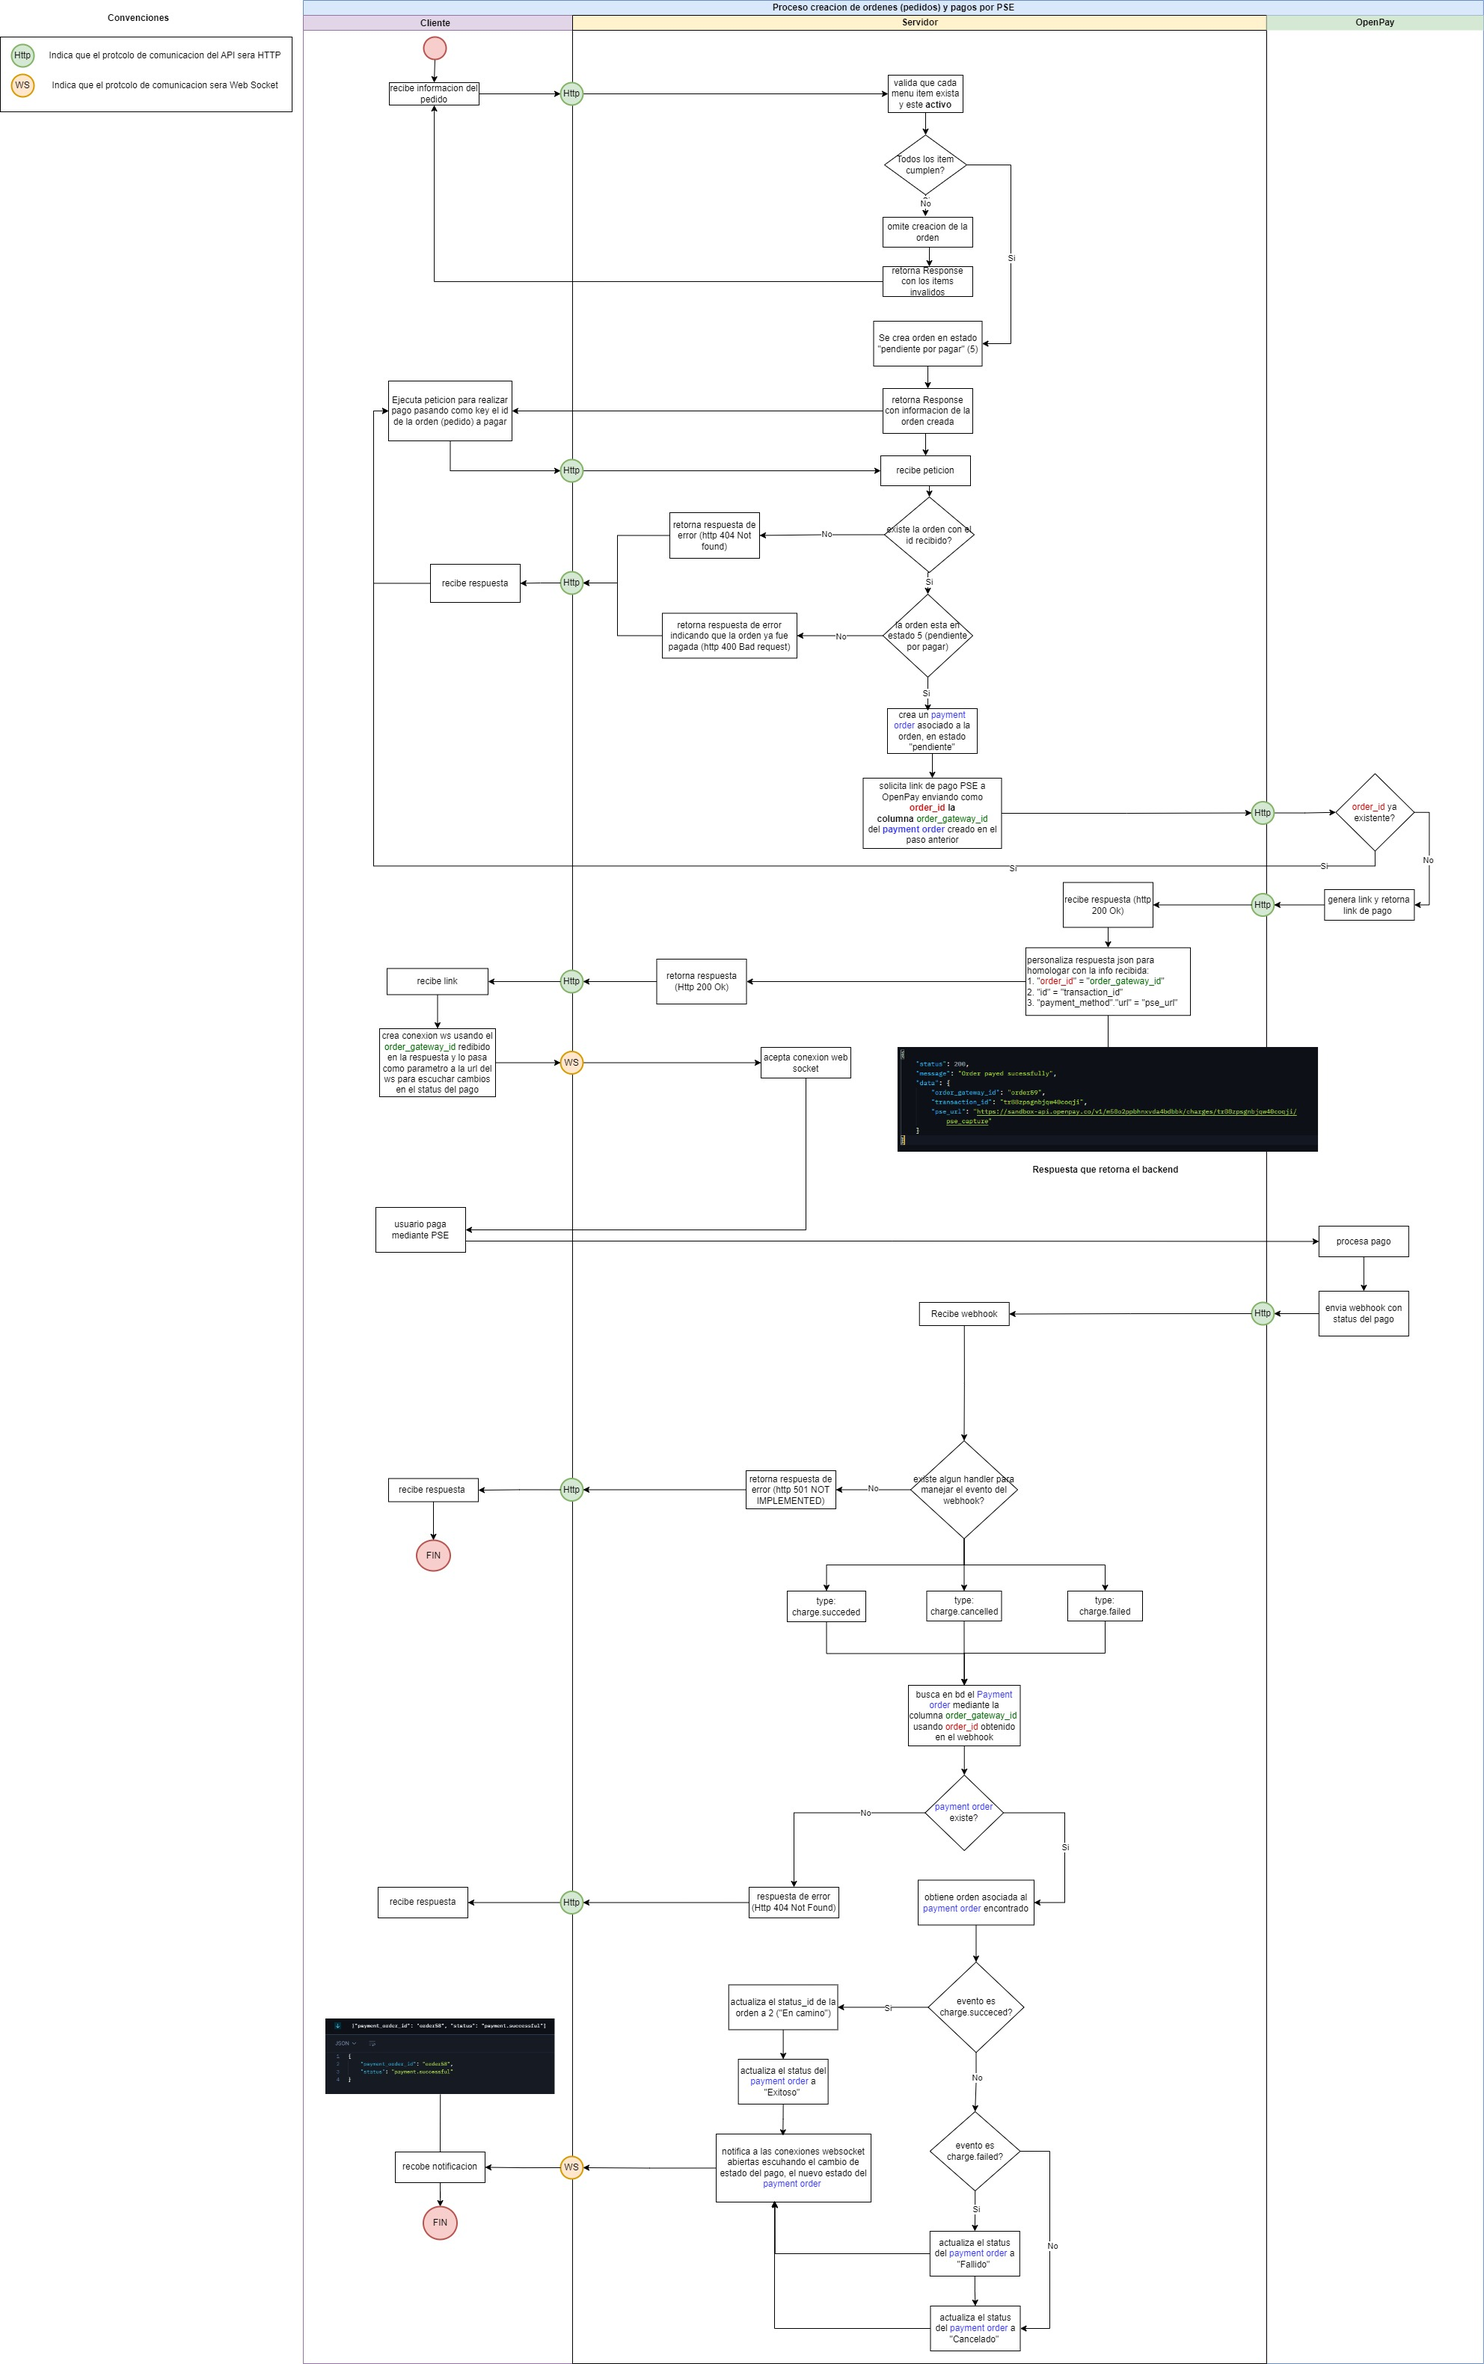
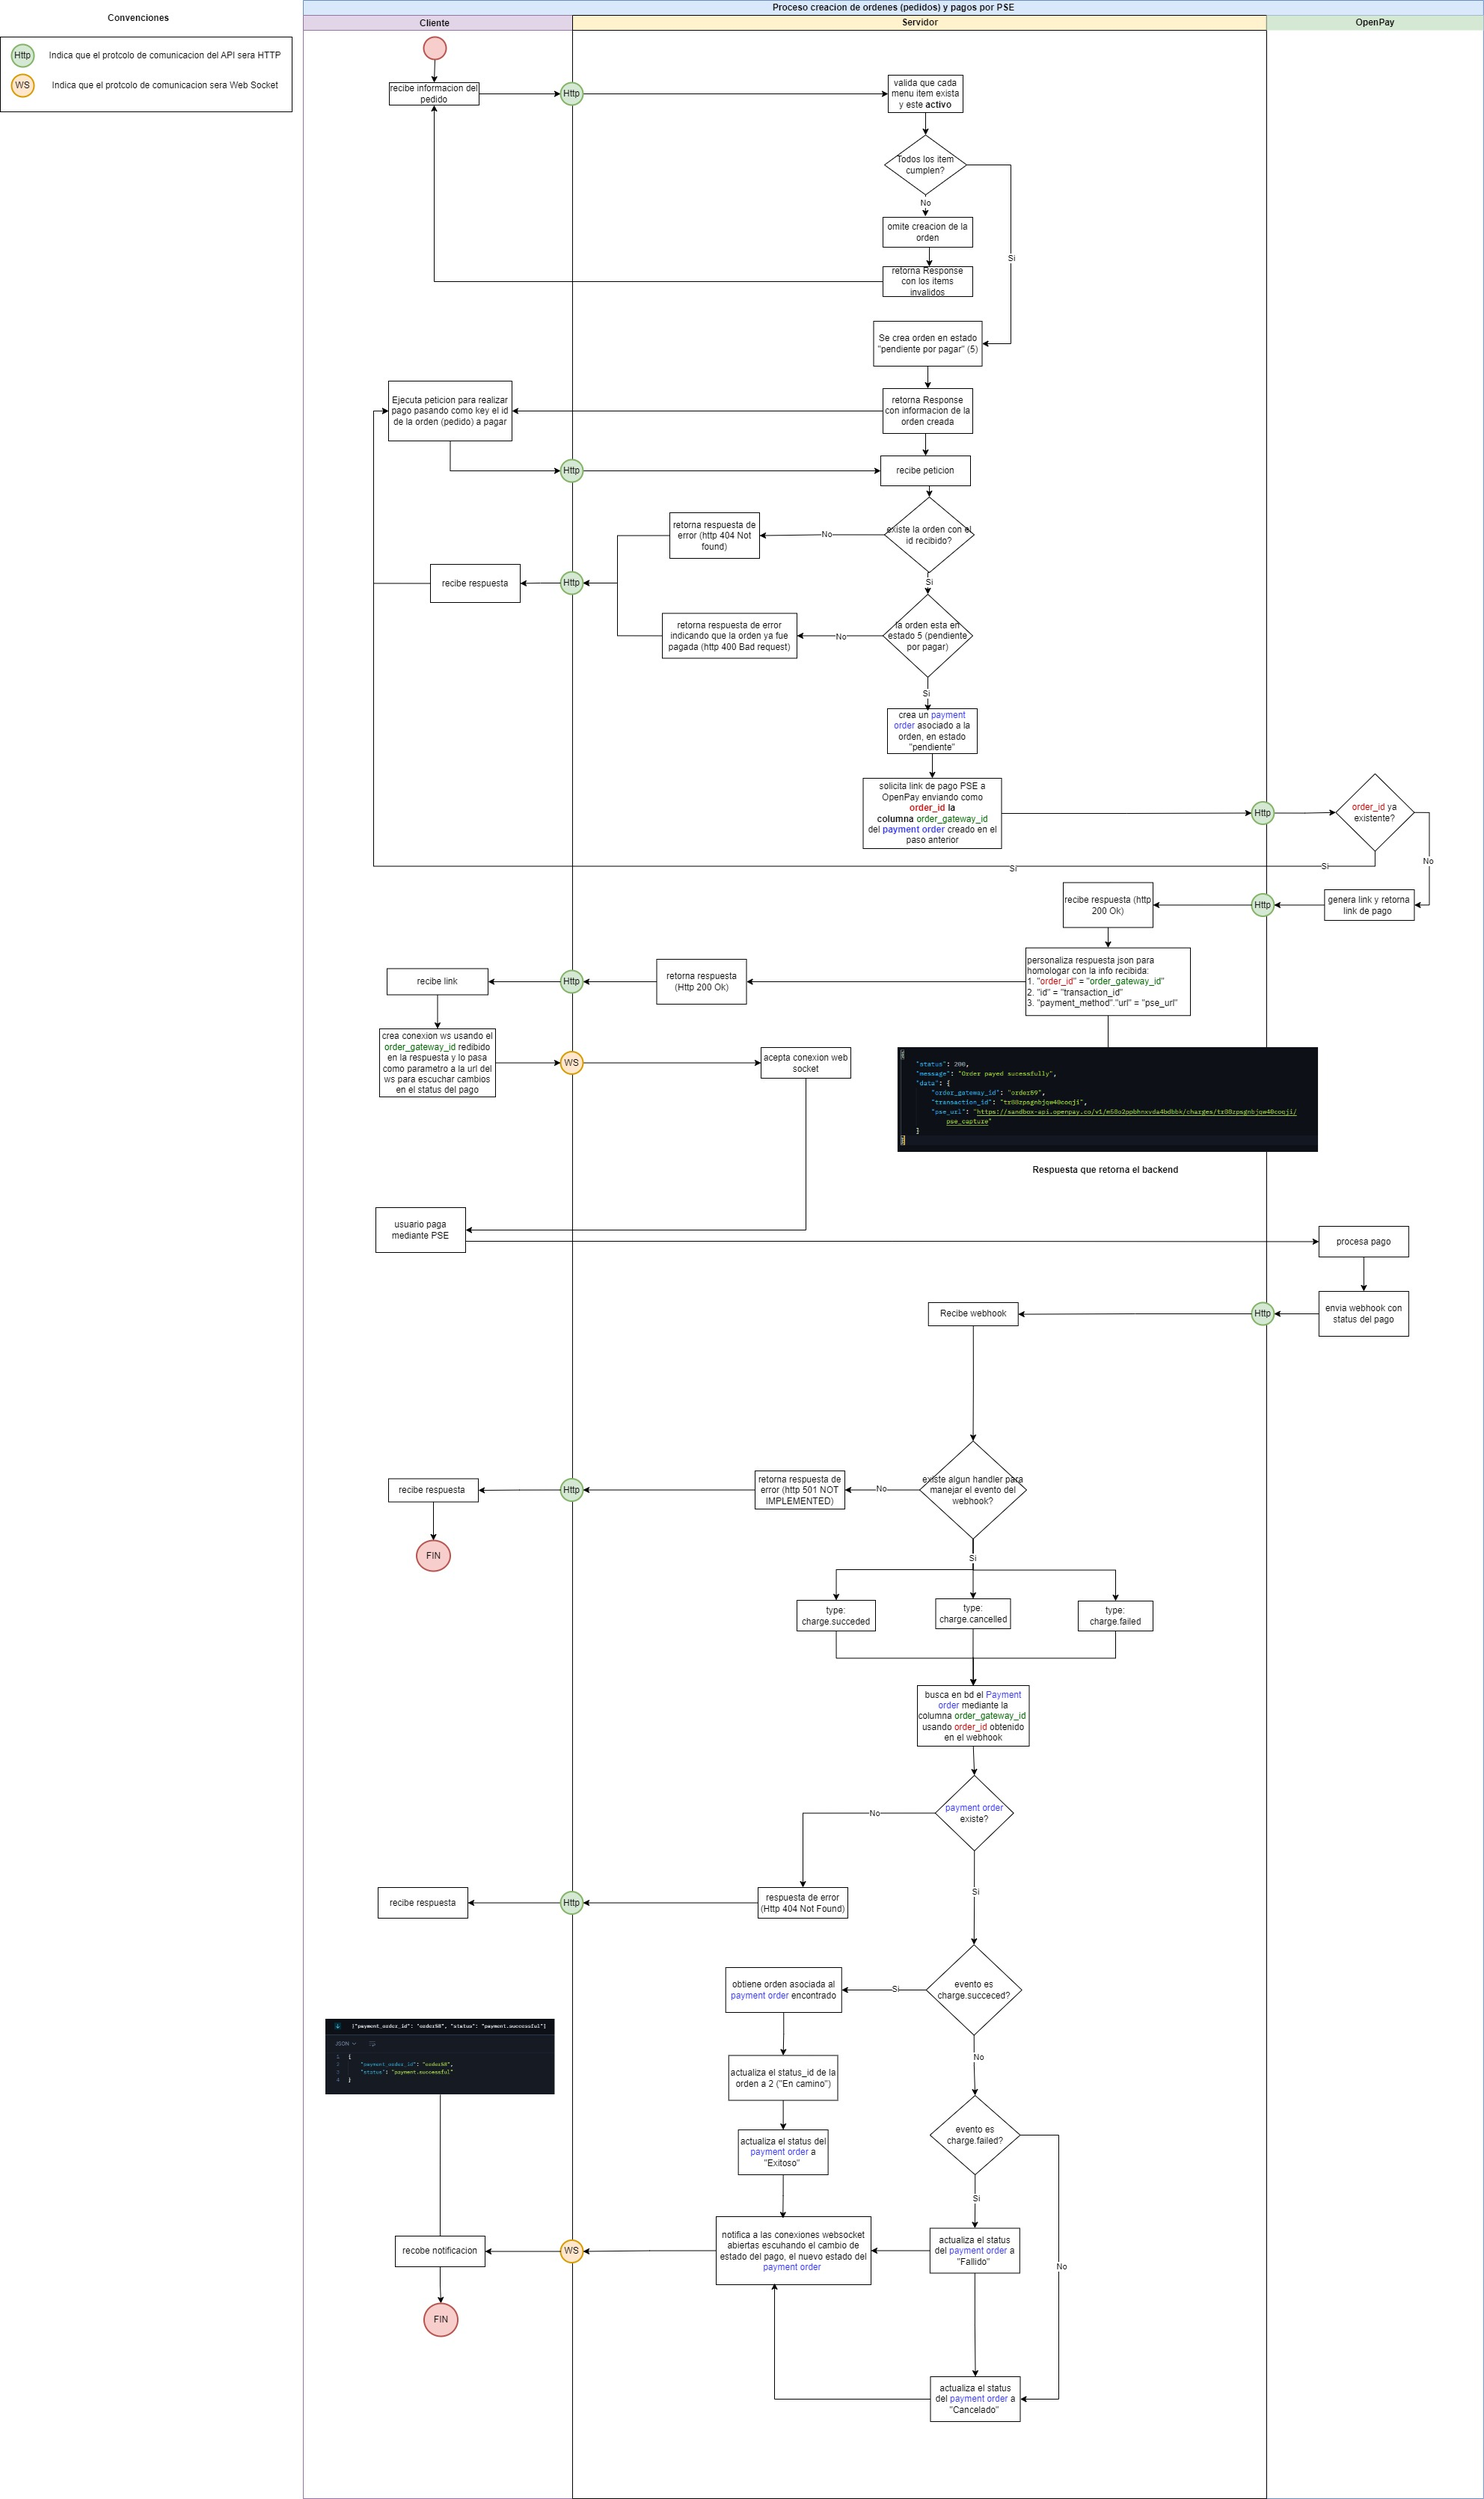
Hanlde cancelled and failed payment webhooks

diff --git a/orders/services/webhooks/webhook_payment_handler.py b/orders/services/webhooks/webhook_payment_handler.py
@@ -37,9 +37,34 @@ class WebhookPaymentHandler:
             raise NotFound(f"There is no order associated with this order_id {order_gateway_id}")
 
     @staticmethod
-    def handle_charge_cancelled(order_gateway_id, payment_order_service, order_service):
-        pass
+    def handle_charge_cancelled(order_gateway_id, payment_order_service):
+        try:
+            payment_socket_service = PaymentWebSocketService()
+            payment_order = payment_order_service.find_payment_order(order_gateway_id)
 
+            payment_order.status = "Cancelado"
+            payment_order.save()
+            
+            async_to_sync(payment_socket_service.send_payment_status)(payment_order.order_gateway_id, "payment.cancelled")
+                
+            return True
+        except Exception as e:
+            print(f"Error to process webhook {e}")
+            return False    
+        
     @staticmethod
-    def handle_charge_failed(order_gateway_id, payment_order_service, order_service):
-        pass
+    def handle_charge_failed(order_gateway_id, payment_order_service):
+        try:
+            payment_socket_service = PaymentWebSocketService()
+            payment_order = payment_order_service.find_payment_order(order_gateway_id)
+
+            payment_order.status = "FALLIDO"
+            payment_order.save()
+            
+            async_to_sync(payment_socket_service.send_payment_status)(payment_order.order_gateway_id, "payment.failed")
+                
+            return True
+        except Exception as e:
+            print(f"Error to process webhook {e}")
+            return False    
+         

diff --git a/orders/services/order_service.py b/orders/services/order_service.py
@@ -26,7 +26,8 @@ class OrderService:
         
         if serializer.is_valid():
             order = self.__get_order_instance(request_data["order_id"])
-            if order.status != 5:
+            print(order.status.id)
+            if order.status.id != 5:
                 return (False, {
                     "error": "The order has already been paid"
                 })
@@ -57,9 +58,19 @@ class OrderService:
                 
                 return result
             case "charge.cancelled":
-                pass
+                result = self.webhook_payment_handler.handle_charge_cancelled(
+                    order_gateway_id, 
+                    self.payment_order_service
+                )
+                
+                return result
             case "charge.failed":
-                pass
+                result = self.webhook_payment_handler.handle_charge_failed(
+                    order_gateway_id,
+                    self.payment_order_service
+                )
+                
+                return result
                 
 
     def save(self, data, user_auth):

diff --git a/orders/migrations/0007_alter_paymentorder_status.py b/orders/migrations/0007_alter_paymentorder_status.py
@@ -1,0 +1,18 @@
+# Generated by Django 5.0.4 on 2025-02-10 00:02
+
+from django.db import migrations, models
+
+
+class Migration(migrations.Migration):
+
+    dependencies = [
+        ('orders', '0006_alter_paymentorder_order_gateway_id'),
+    ]
+
+    operations = [
+        migrations.AlterField(
+            model_name='paymentorder',
+            name='status',
+            field=models.CharField(choices=[('PENDIENTE', 'Pendiente'), ('EXITOSO', 'Exitoso'), ('FALLIDO', 'FALLIDO'), ('CANCELADO', 'Cancelado')], default='pendiente', max_length=10),
+        ),
+    ]

diff --git a/coreapp/management/commands/status_seed.py b/coreapp/management/commands/status_seed.py
@@ -5,7 +5,7 @@ class Command(BaseCommand):
     help = "Seed db with initial permissions"
 
     def handle(self, *args, **options):
-        statuses = ["Pendiente por pago", "Pendiente", "En camino", "Entregado", "Cancelado"]
+        statuses = ["Pendiente", "En camino", "Entregado", "Cancelado", "Pendiente por pago"]
         
         for status_name in statuses:
             # Usa get_or_create para obtener o crear el objeto

diff --git a/orders/models/payment_orders.py b/orders/models/payment_orders.py
@@ -6,7 +6,8 @@ class PaymentOrder(models.Model):
     STATUS_CHOICES = [
         ("PENDIENTE", "Pendiente"),
         ("EXITOSO", "Exitoso"),
-        ("FALLIDO", "FALLIDO")
+        ("FALLIDO", "FALLIDO"),
+        ("CANCELADO", "Cancelado")
     ]
     
     order_gateway_id = models.CharField(unique=True, null=True)
